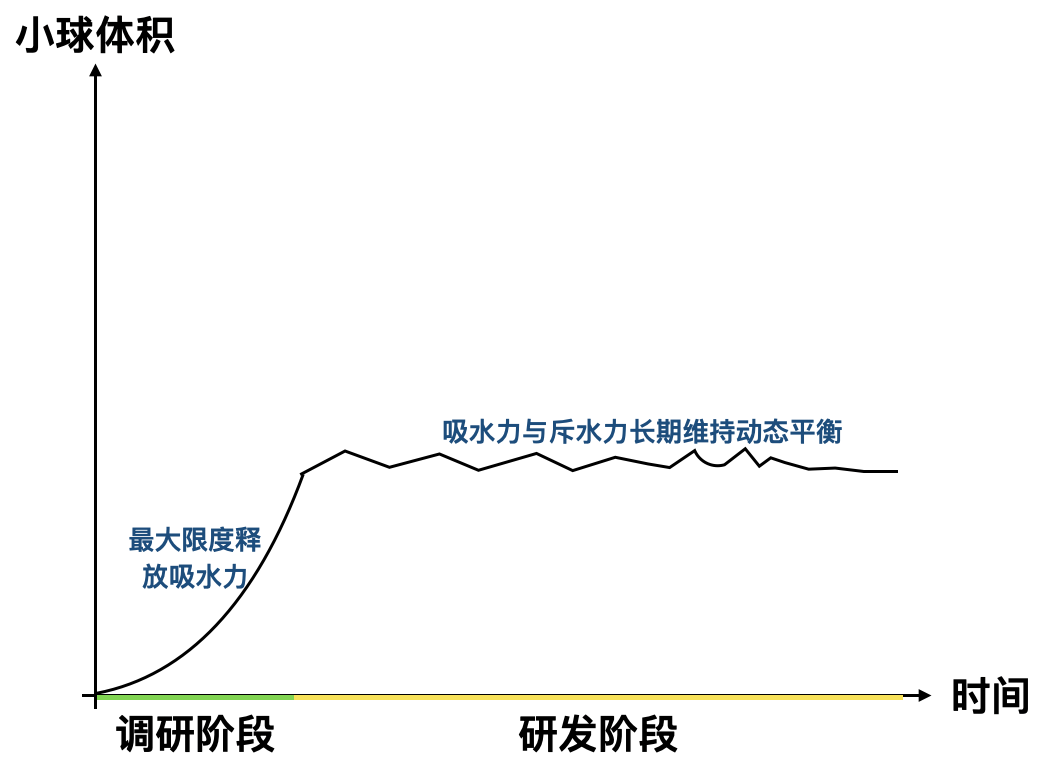
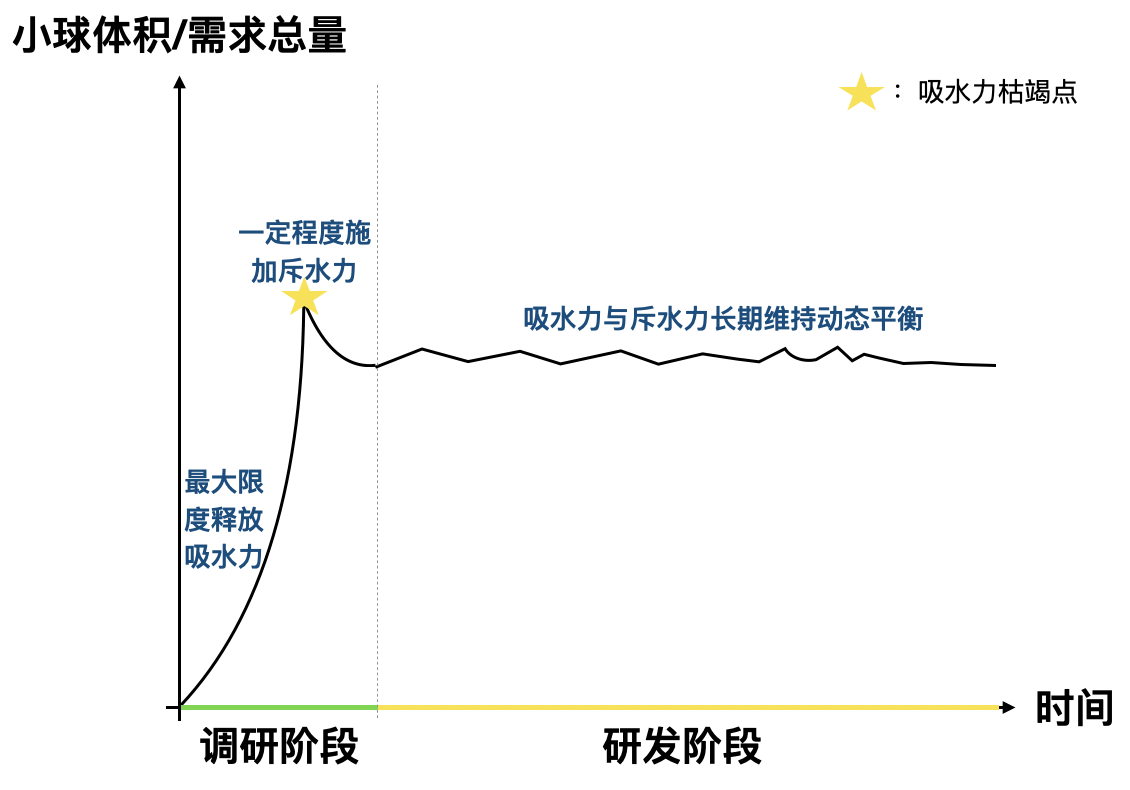
update img

diff --git a/source/_posts/2020-05-22-软件需求膨胀.md b/source/_posts/2020-05-22-软件需求膨胀.md
@@ -15,9 +15,12 @@ tags:
 
 # 软件需求
 
-软件需求与膨胀球也有类似之处，一开始时看似完备正交，做起来发现**越做越大，越做越多**。
-
+软件需求与泡水膨胀球也有类似之处。
+一开始时看似完备正交，做起来发现**越做越大，越做越多**。
 原本一只手能抓好几个的小球，后来变成两只手都抓不住。
+
+然后的结果要么是超预算多花钱做完，要么是转嫁成本给乙方要求对方做完，要么是延期，要么是痛苦地去压缩需求。
+无论哪种，都是不健康的。
 
 # 膨胀系数
 
@@ -30,18 +33,18 @@ tags:
 
 吸水力与斥水力同时存在，有时东风压倒西风，有时西风压倒东风。
 
-当两个力相互平衡时，膨胀系数变为零，小球体积在时间的轴线上也趋于**稳定**。
+当两个力接近相互**平衡**时，膨胀系数变为零，小球体积在时间的轴线上也趋于**稳定**。
 
 # 力的阶段性施加策略
 
 我们希望的小球体积怎样变化呢？应该是如下图所示：
 
-<img src="/images/需求膨胀/体积变化.png" alt="drawing" width="500"/>
+<img src="/images/需求膨胀/体积变化.png"/>
 
-调研阶段积极创造**环境**来允许吸水力的**释放**，让小球变肥。
+调研阶段积极创造**环境**来让吸水力得以**释放**，先允许小球变肥。然后施加一定的斥水力，让小球苗条下来。
 
-到了研发阶段，由于吸水力在之前就已经得到了有效的**疏散**，我们只需要施加适量的斥水力来平衡**所剩无几**的吸水力就能让小球体积的波动维持在**可控**的范围内。
+到了研发阶段，由于吸水力在之前就已经得到了有效的**释放**，这时施加适量的斥水力来平衡**所剩无几**的吸水力就能让小球体积的波动维持在**可控**的范围内。
 
 先允许小球肥胖起来，以免后面出现始料未及的“惊喜”。
 
-在不同的阶段有策略地利用这两种力，则可以达到前期需求收集充分考虑到各方诉求，后续研发稳定**不坐过山车**的目的。
+在不同的阶段有策略地利用这两种力，则可以趋近**前期需求收集充分考虑各方诉求**不留大的隐患，后续研发稳定**不坐过山车**的目的。
